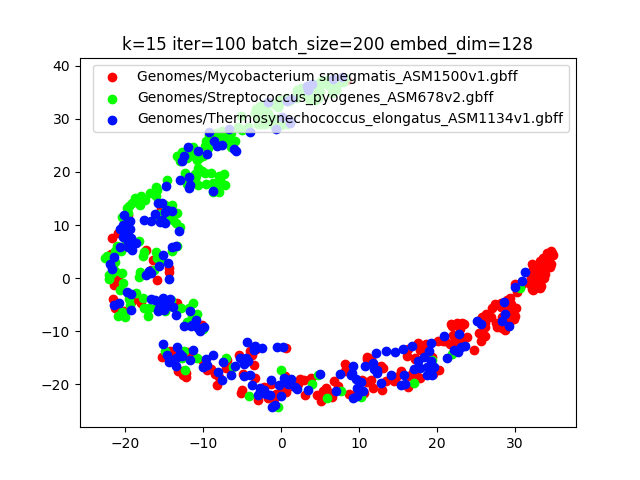
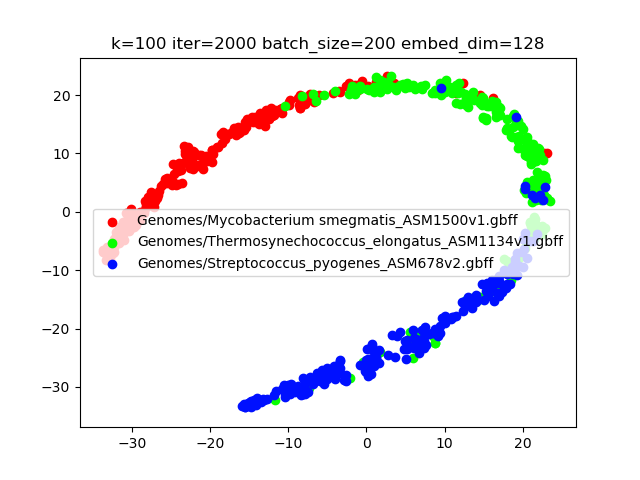
running on supercomputer

diff --git a/Triplet.py b/Triplet.py
@@ -4,11 +4,12 @@ import os
 from Bio import SeqIO
 from random import shuffle, sample
 from sklearn.manifold import TSNE
+import matplotlib
+matplotlib.use('agg')
 import matplotlib.pyplot as plt
 import _pickle as pickle
 from math import sqrt
 import sys
-
 
 # def seq2binary(seq):
 #     # N's = G's
@@ -256,10 +257,10 @@ class Triplet:
 
 
 # set parameters
-k_mer_len = 15
+k_mer_len = 100
 batch_size = 200
 logging_frequency = 25
-iterations = 100
+iterations = 2000
 margin = 1
 visualization_batch_size = 100
 top_k_iter_start = 300  # after how many iterations training on only easiest triplets should begin
@@ -361,6 +362,6 @@ with tf.Session() as sess:
 
     os.system('say "finished"')
     plt.savefig("Figures/triplet_figure")
-    plt.show()
+    # plt.show()
 
 
